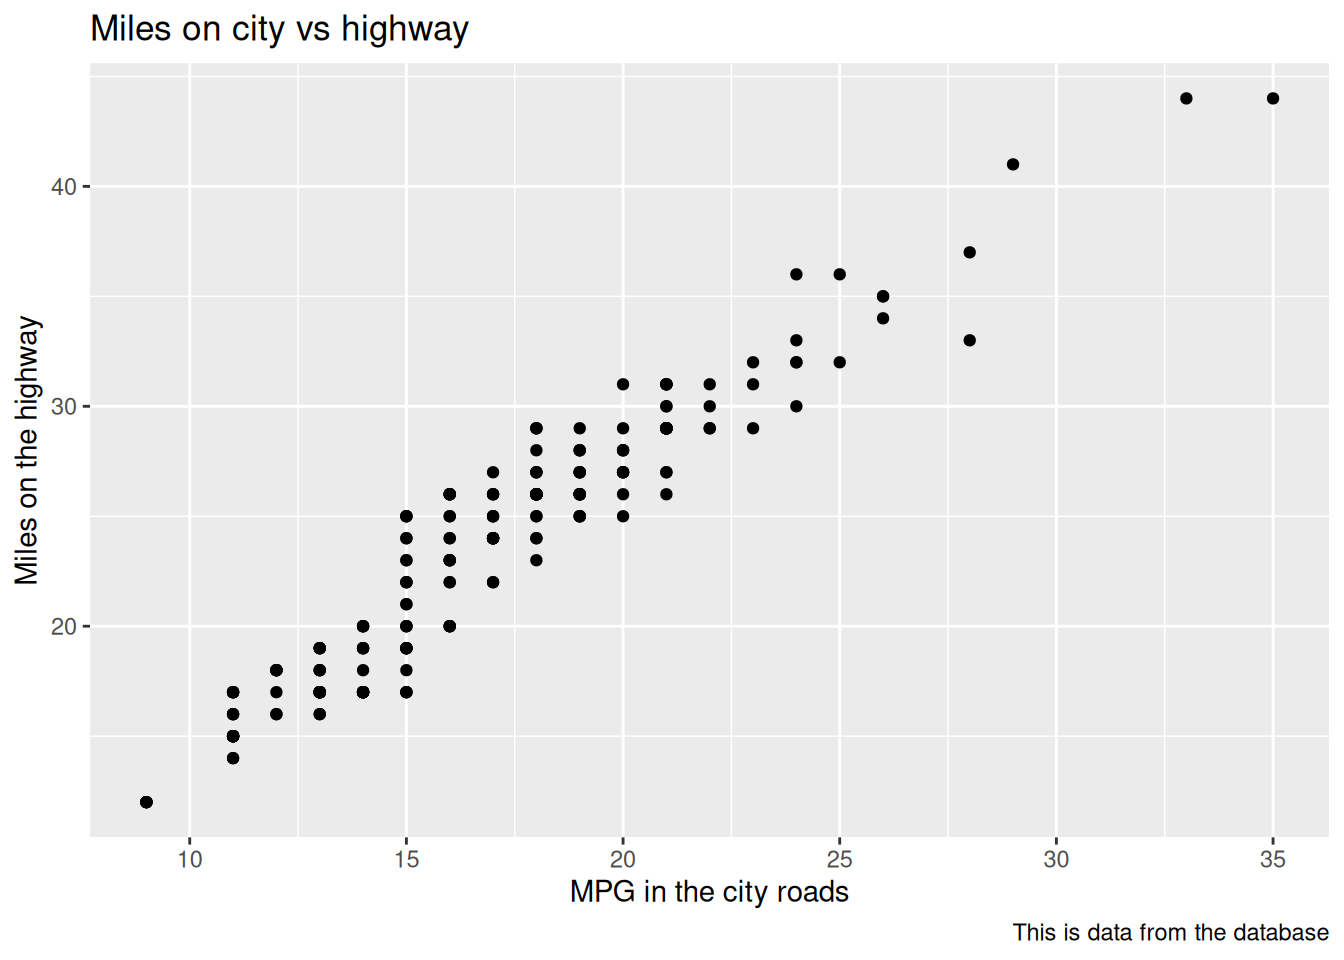
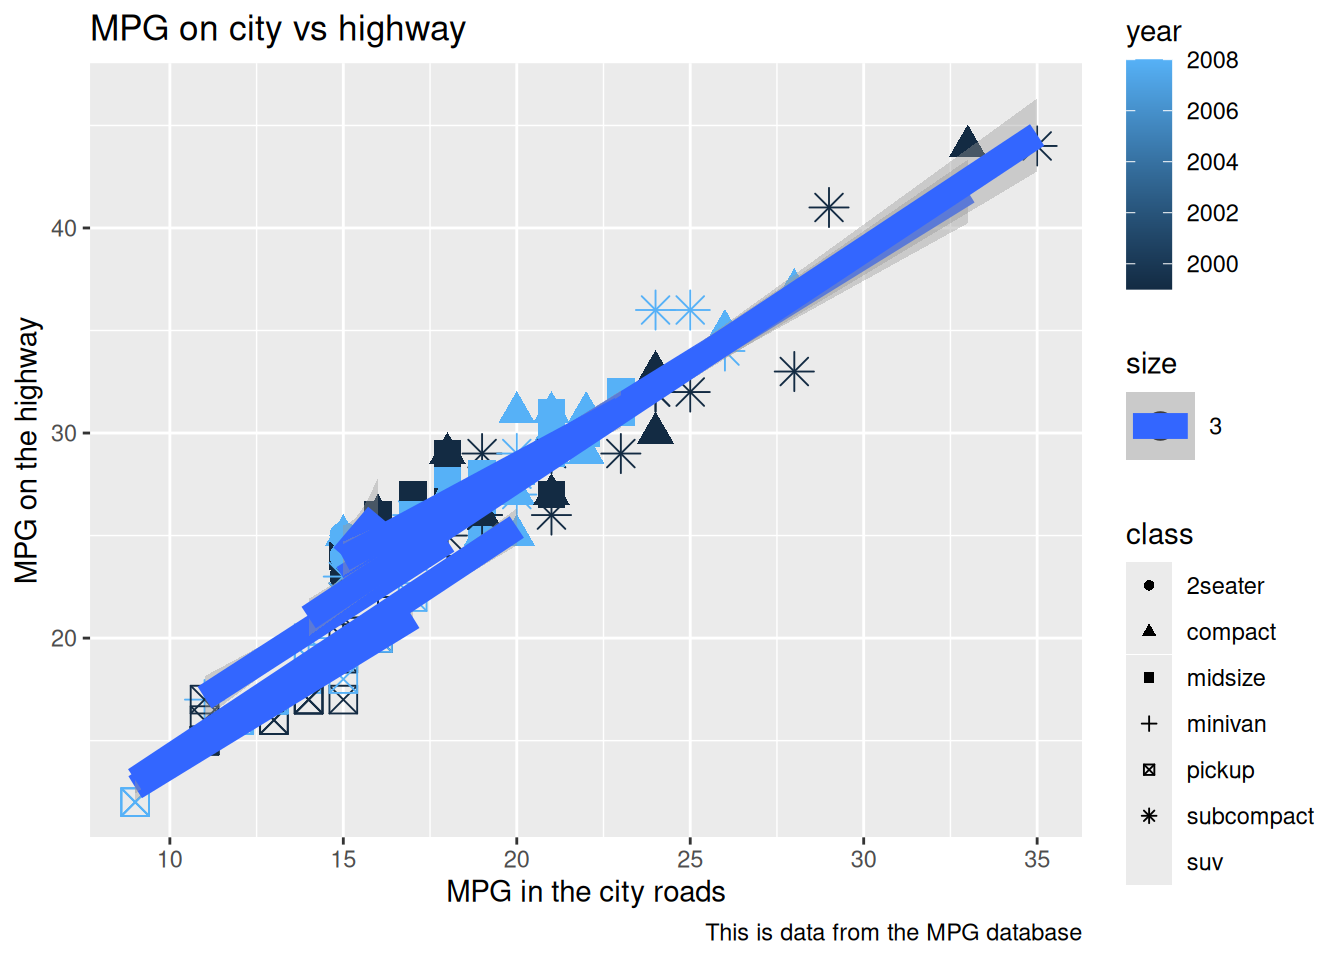
Graphs and aesthetics

diff --git a/docs/posts/Cool_ggplot_work/index.html b/docs/posts/Cool_ggplot_work/index.html
@@ -192,25 +192,69 @@ pre > code.sourceCode > span > a:first-child::before { text-decoration: underlin
 
 
 
-<p>This week i took a GREAT short course on R and learned a bit of ggplot. Here are some examples</p>
+<p>This week I took a GREAT short course on R and learned a bit of ggplot. Here are some examples.</p>
 <p>First, we learned about basic plots and mapping. Variables onto the x and y axis. Here is an example using the mpg dataset</p>
 <div class="cell">
-<div class="code-copy-outer-scaffold"><div class="sourceCode cell-code" id="cb1"><pre class="sourceCode r code-with-copy"><code class="sourceCode r"><span id="cb1-1"><a href="#cb1-1" aria-hidden="true" tabindex="-1"></a><span class="fu">library</span>(ggplot2)</span></code></pre></div><button title="Copy to Clipboard" class="code-copy-button"><i class="bi"></i></button></div>
+<div class="code-copy-outer-scaffold"><div class="sourceCode cell-code" id="cb1"><pre class="sourceCode r code-with-copy"><code class="sourceCode r"><span id="cb1-1"><a href="#cb1-1" aria-hidden="true" tabindex="-1"></a><span class="fu">library</span>(ggplot2)</span>
+<span id="cb1-2"><a href="#cb1-2" aria-hidden="true" tabindex="-1"></a>?mpg</span>
+<span id="cb1-3"><a href="#cb1-3" aria-hidden="true" tabindex="-1"></a><span class="fu">ggplot</span>(</span>
+<span id="cb1-4"><a href="#cb1-4" aria-hidden="true" tabindex="-1"></a>  <span class="at">data =</span> mpg,</span>
+<span id="cb1-5"><a href="#cb1-5" aria-hidden="true" tabindex="-1"></a>  <span class="at">mapping =</span> <span class="fu">aes</span>(</span>
+<span id="cb1-6"><a href="#cb1-6" aria-hidden="true" tabindex="-1"></a>    <span class="at">x =</span> cty,</span>
+<span id="cb1-7"><a href="#cb1-7" aria-hidden="true" tabindex="-1"></a>    <span class="at">y =</span> hwy</span>
+<span id="cb1-8"><a href="#cb1-8" aria-hidden="true" tabindex="-1"></a>  )</span>
+<span id="cb1-9"><a href="#cb1-9" aria-hidden="true" tabindex="-1"></a>) <span class="sc">+</span> <span class="fu">geom_point</span>()</span></code></pre></div><button title="Copy to Clipboard" class="code-copy-button"><i class="bi"></i></button></div>
+<div class="cell-output-display">
+<div>
+<figure class="figure">
+<p><img src="index_files/figure-html/unnamed-chunk-1-1.png" class="img-fluid figure-img" width="672"></p>
+</figure>
+</div>
+</div>
 </div>
 <div class="cell">
 <div class="code-copy-outer-scaffold"><div class="sourceCode cell-code" id="cb2"><pre class="sourceCode r code-with-copy"><code class="sourceCode r"><span id="cb2-1"><a href="#cb2-1" aria-hidden="true" tabindex="-1"></a><span class="fu">ggplot</span>(</span>
 <span id="cb2-2"><a href="#cb2-2" aria-hidden="true" tabindex="-1"></a>  <span class="at">data =</span> mpg,</span>
 <span id="cb2-3"><a href="#cb2-3" aria-hidden="true" tabindex="-1"></a>  <span class="at">mapping =</span> <span class="fu">aes</span>(</span>
 <span id="cb2-4"><a href="#cb2-4" aria-hidden="true" tabindex="-1"></a>    <span class="at">x =</span> cty,</span>
-<span id="cb2-5"><a href="#cb2-5" aria-hidden="true" tabindex="-1"></a>    <span class="at">y =</span> hwy</span>
-<span id="cb2-6"><a href="#cb2-6" aria-hidden="true" tabindex="-1"></a>  )</span>
-<span id="cb2-7"><a href="#cb2-7" aria-hidden="true" tabindex="-1"></a>) <span class="sc">+</span> <span class="fu">geom_point</span>()<span class="sc">+</span></span>
-<span id="cb2-8"><a href="#cb2-8" aria-hidden="true" tabindex="-1"></a>  <span class="fu">labs</span>(</span>
-<span id="cb2-9"><a href="#cb2-9" aria-hidden="true" tabindex="-1"></a>    <span class="at">title =</span> <span class="st">"Miles on city vs highway"</span>,</span>
-<span id="cb2-10"><a href="#cb2-10" aria-hidden="true" tabindex="-1"></a>    <span class="at">x =</span> <span class="st">"MPG in the city roads"</span>,</span>
-<span id="cb2-11"><a href="#cb2-11" aria-hidden="true" tabindex="-1"></a>    <span class="at">y =</span> <span class="st">"Miles on the highway"</span>,</span>
-<span id="cb2-12"><a href="#cb2-12" aria-hidden="true" tabindex="-1"></a>    <span class="at">caption =</span> <span class="st">"This is data from the database"</span></span>
-<span id="cb2-13"><a href="#cb2-13" aria-hidden="true" tabindex="-1"></a>  )</span></code></pre></div><button title="Copy to Clipboard" class="code-copy-button"><i class="bi"></i></button></div>
+<span id="cb2-5"><a href="#cb2-5" aria-hidden="true" tabindex="-1"></a>    <span class="at">y =</span> hwy,</span>
+<span id="cb2-6"><a href="#cb2-6" aria-hidden="true" tabindex="-1"></a>    <span class="at">color =</span> year,</span>
+<span id="cb2-7"><a href="#cb2-7" aria-hidden="true" tabindex="-1"></a>    <span class="at">shape =</span> class,</span>
+<span id="cb2-8"><a href="#cb2-8" aria-hidden="true" tabindex="-1"></a>    <span class="at">size =</span> <span class="dv">3</span></span>
+<span id="cb2-9"><a href="#cb2-9" aria-hidden="true" tabindex="-1"></a>  )</span>
+<span id="cb2-10"><a href="#cb2-10" aria-hidden="true" tabindex="-1"></a>) <span class="sc">+</span> <span class="fu">geom_point</span>()<span class="sc">+</span></span>
+<span id="cb2-11"><a href="#cb2-11" aria-hidden="true" tabindex="-1"></a>  <span class="fu">geom_smooth</span>(<span class="at">method=</span><span class="st">"lm"</span>) <span class="sc">+</span></span>
+<span id="cb2-12"><a href="#cb2-12" aria-hidden="true" tabindex="-1"></a>  <span class="fu">labs</span>(</span>
+<span id="cb2-13"><a href="#cb2-13" aria-hidden="true" tabindex="-1"></a>    <span class="at">title =</span> <span class="st">"MPG on city vs highway"</span>,</span>
+<span id="cb2-14"><a href="#cb2-14" aria-hidden="true" tabindex="-1"></a>    <span class="at">x =</span> <span class="st">"MPG in the city roads"</span>,</span>
+<span id="cb2-15"><a href="#cb2-15" aria-hidden="true" tabindex="-1"></a>    <span class="at">y =</span> <span class="st">"MPG on the highway"</span>,</span>
+<span id="cb2-16"><a href="#cb2-16" aria-hidden="true" tabindex="-1"></a>    <span class="at">caption =</span> <span class="st">"This is data from the MPG database"</span></span>
+<span id="cb2-17"><a href="#cb2-17" aria-hidden="true" tabindex="-1"></a>  )</span></code></pre></div><button title="Copy to Clipboard" class="code-copy-button"><i class="bi"></i></button></div>
+<div class="cell-output cell-output-stderr">
+<pre><code>Warning: Using `size` aesthetic for lines was deprecated in ggplot2 3.4.0.
+ℹ Please use `linewidth` instead.</code></pre>
+</div>
+<div class="cell-output cell-output-stderr">
+<pre><code>`geom_smooth()` using formula = 'y ~ x'</code></pre>
+</div>
+<div class="cell-output cell-output-stderr">
+<pre><code>Warning: The following aesthetics were dropped during statistical transformation:
+colour.
+ℹ This can happen when ggplot fails to infer the correct grouping structure in
+  the data.
+ℹ Did you forget to specify a `group` aesthetic or to convert a numerical
+  variable into a factor?</code></pre>
+</div>
+<div class="cell-output cell-output-stderr">
+<pre><code>Warning: The shape palette can deal with a maximum of 6 discrete values because more
+than 6 becomes difficult to discriminate
+ℹ you have requested 7 values. Consider specifying shapes manually if you need
+  that many of them.</code></pre>
+</div>
+<div class="cell-output cell-output-stderr">
+<pre><code>Warning: Removed 62 rows containing missing values or values outside the scale range
+(`geom_point()`).</code></pre>
+</div>
 <div class="cell-output-display">
 <div>
 <figure class="figure">
@@ -219,7 +263,7 @@ pre > code.sourceCode > span > a:first-child::before { text-decoration: underlin
 </div>
 </div>
 </div>
-<p>This is great, but one thing that we learned about was the importance of using labels using the labs function. so here’s the graph again with better labeling to make the graph stand</p>
+<p>This is great, but one thing that we learned about was the importance of using labels using the labs function. so here’s the graph again with better labeling to make the graph stand out</p>
 
 
 

diff --git a/docs/index.html b/docs/index.html
@@ -209,10 +209,10 @@ window.Quarto = {
 
 <div class="quarto-listing quarto-listing-container-default" id="listing-listing">
 <div class="list quarto-listing-default">
-<div class="quarto-post image-right" data-index="0" data-categories="Z29hbHMlMkNnZW5lcmFs" data-listing-date-sort="1787097600000" data-listing-file-modified-sort="1787164527827" data-listing-date-modified-sort="NaN" data-listing-reading-time-sort="1" data-listing-word-count-sort="142">
+<div class="quarto-post image-right" data-index="0" data-categories="Z29hbHMlMkNnZW5lcmFs" data-listing-date-sort="1787097600000" data-listing-file-modified-sort="1787165985340" data-listing-date-modified-sort="NaN" data-listing-reading-time-sort="1" data-listing-word-count-sort="189">
 <div class="thumbnail"><a href="./posts/Cool_ggplot_work/index.html" class="no-external">
 
-<p class="card-img-top"><img src="posts/Cool_ggplot_work/index_files/figure-html/unnamed-chunk-2-1.png"  class="thumbnail-image card-img"/></p>
+<p class="card-img-top"><img src="posts/Cool_ggplot_work/index_files/figure-html/unnamed-chunk-1-1.png"  class="thumbnail-image card-img"/></p>
 
 </a></div>
 <div class="body">
@@ -227,7 +227,7 @@ window.Quarto = {
 
 </div>
 <div class="delink listing-description"><a href="./posts/Cool_ggplot_work/index.html" class="no-external">
-This week i took a GREAT short course on R and learned a bit of ggplot. Here are some examples
+This week I took a GREAT short course on R and learned a bit of ggplot. Here are some examples.
 </a></div>
 </div>
 <div class="metadata">
